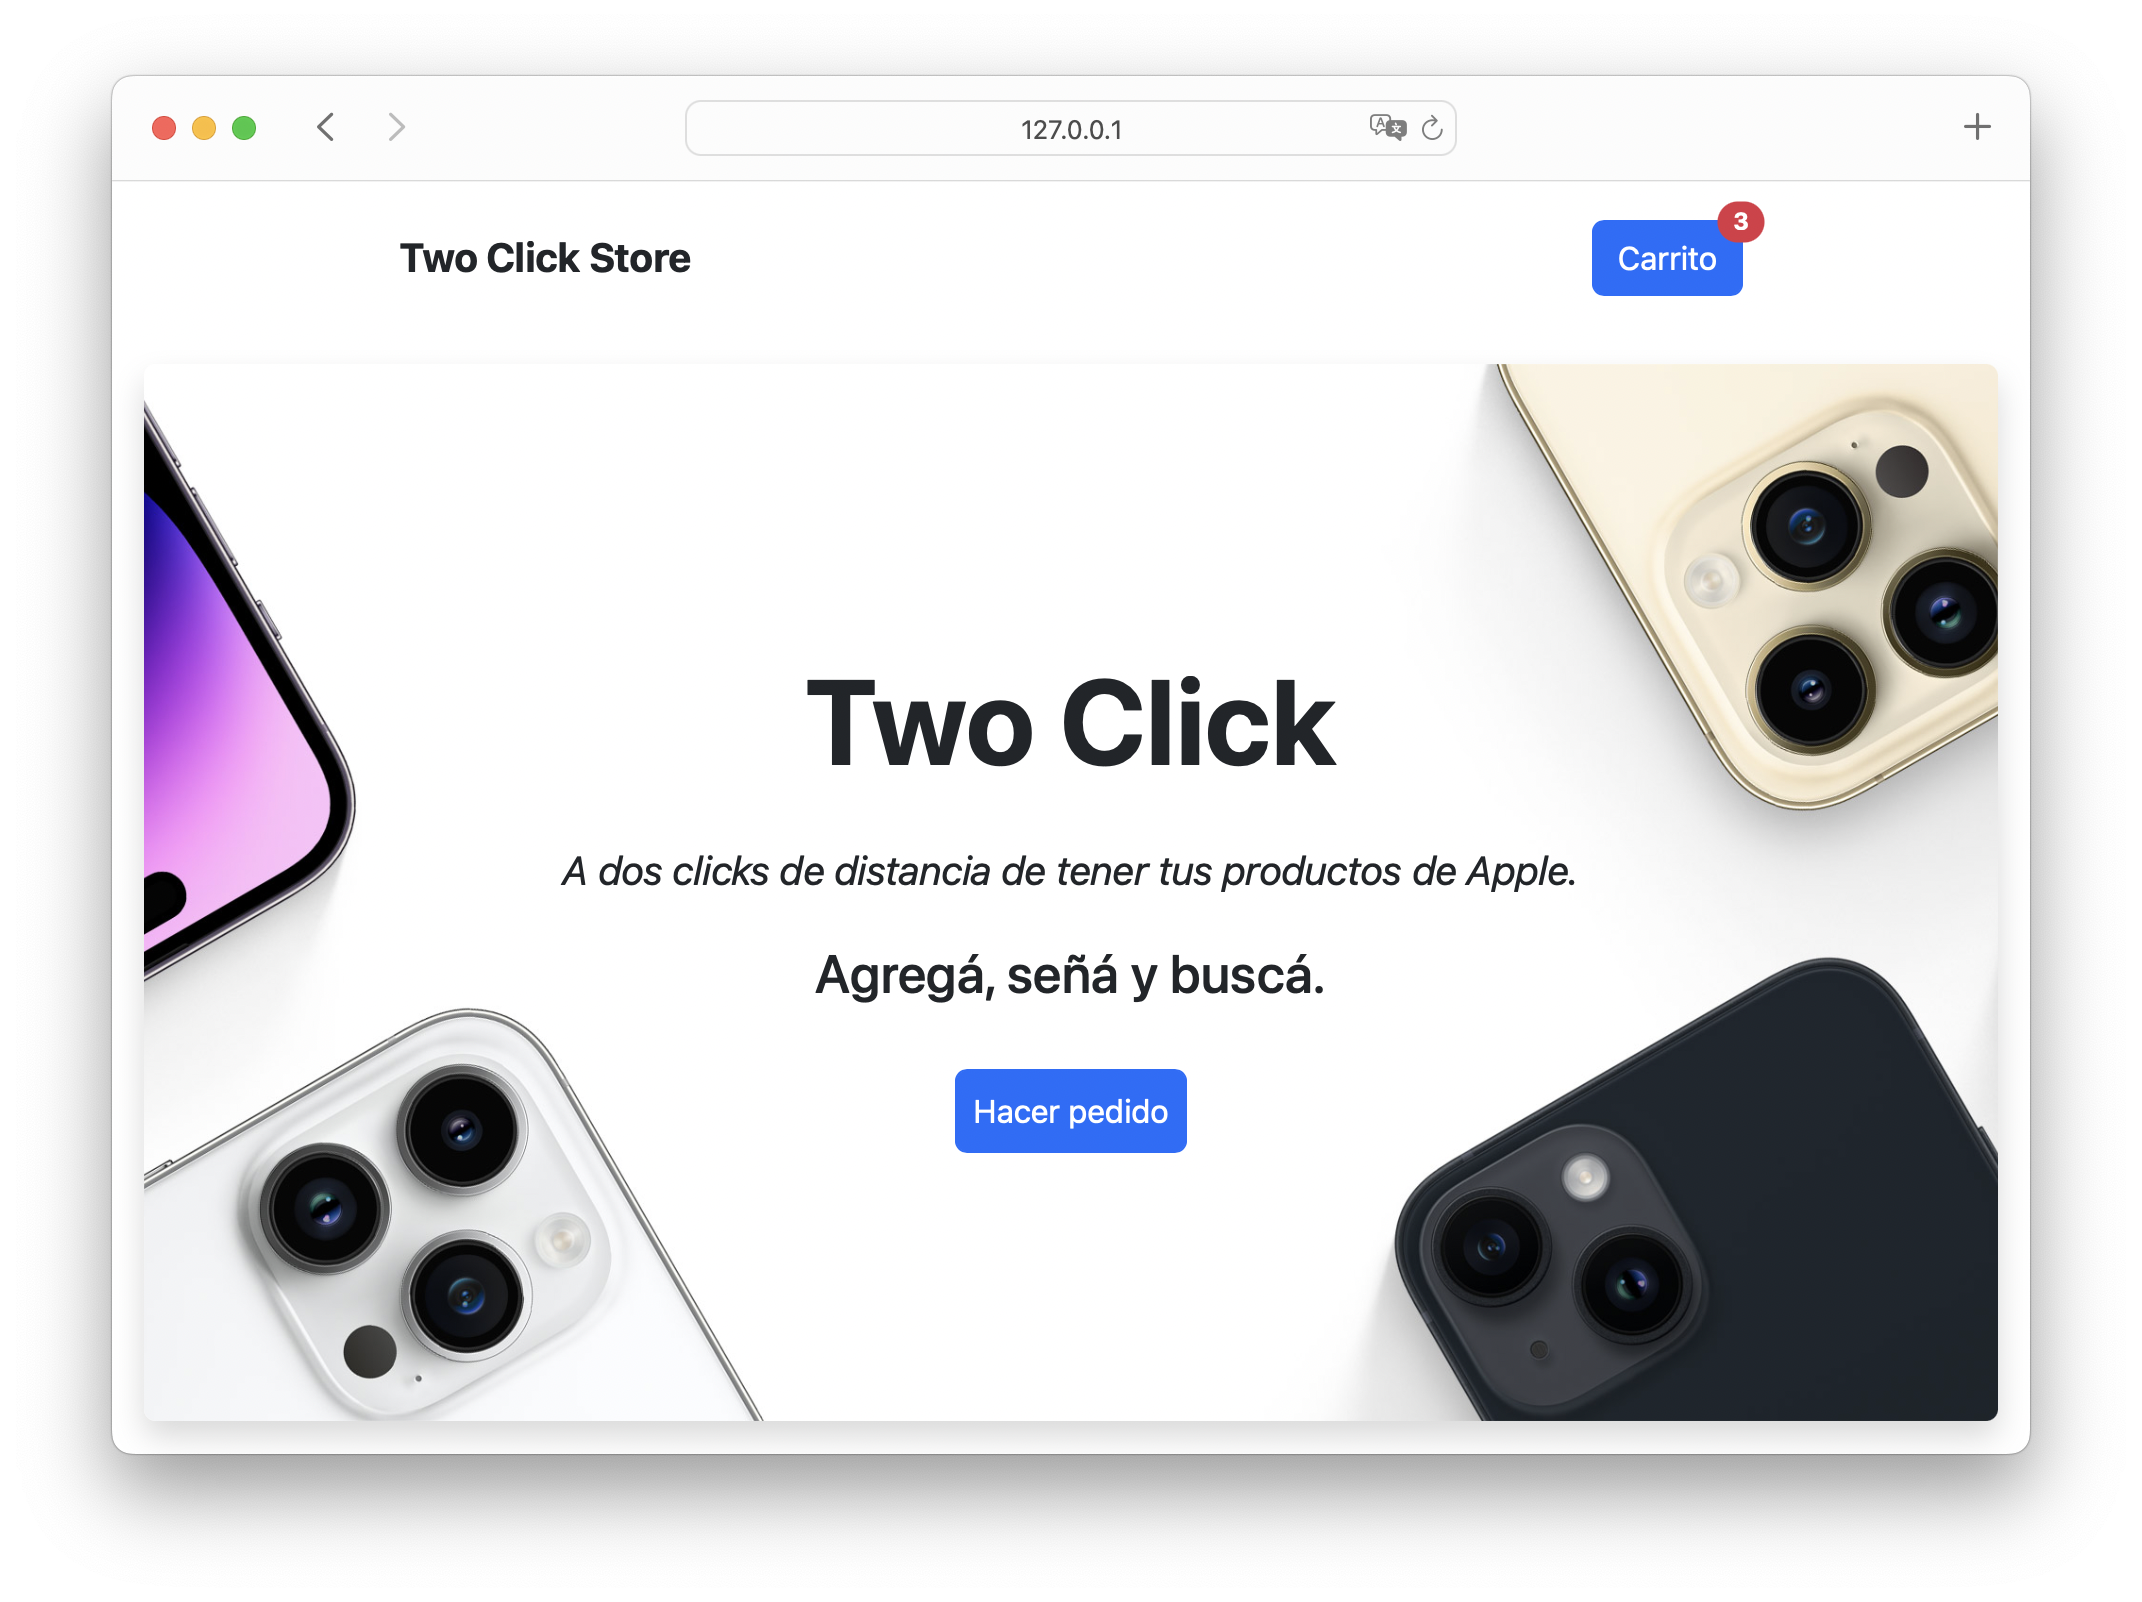
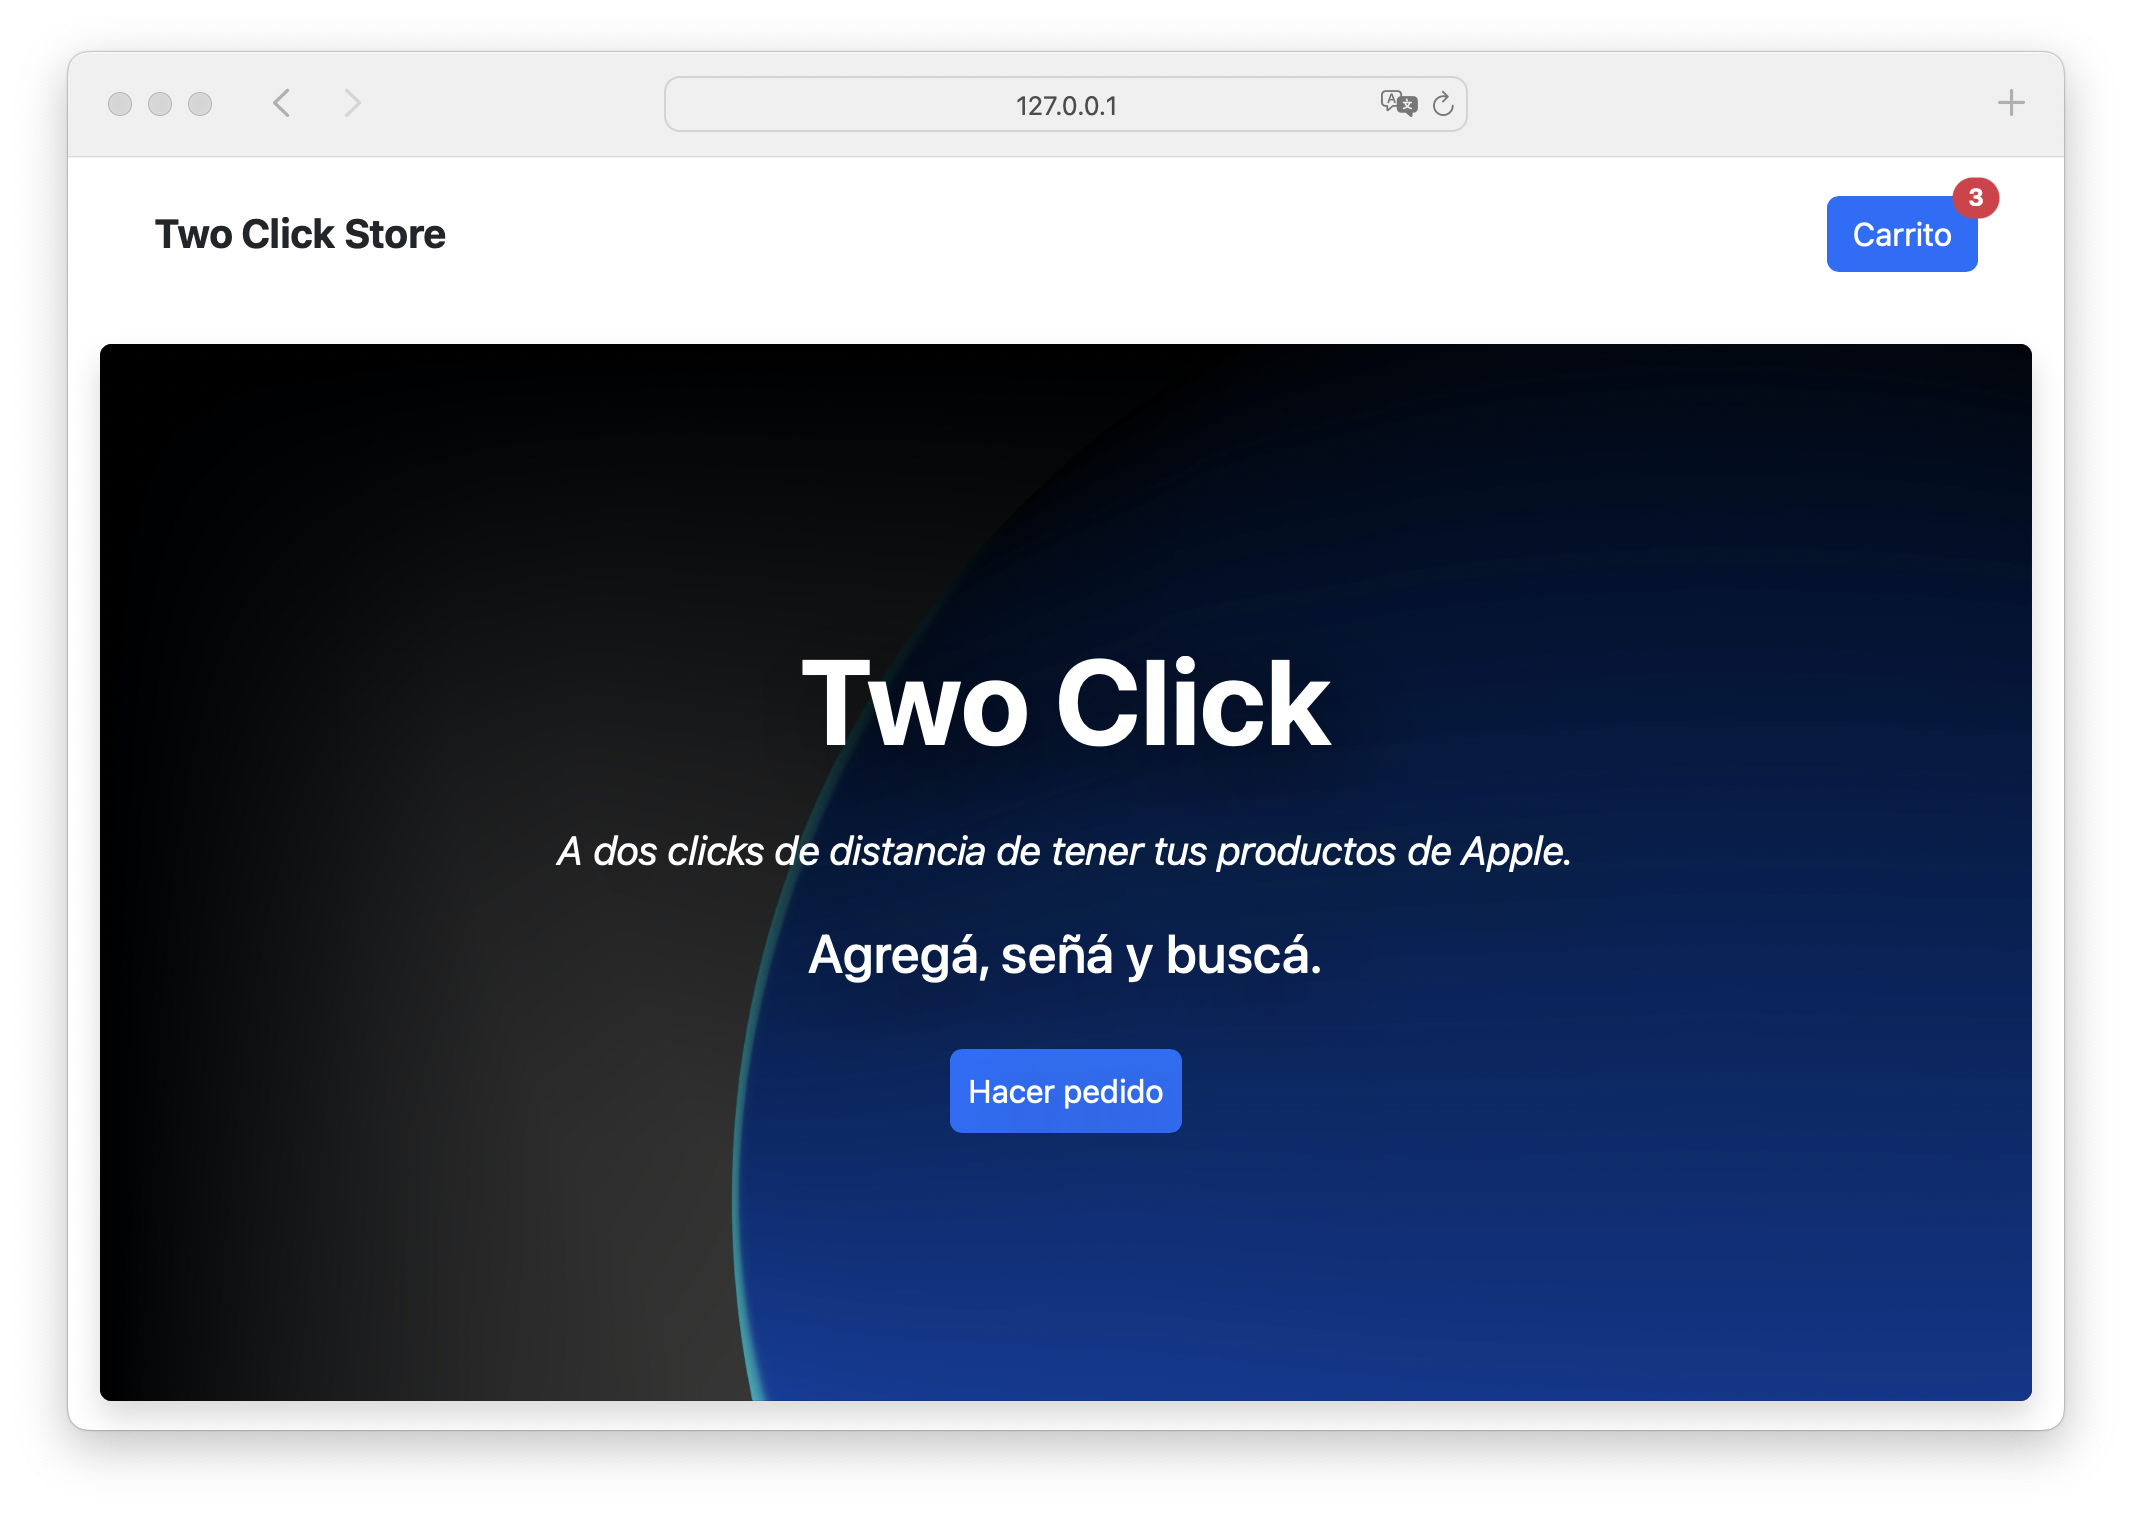
308

diff --git a/index.html b/index.html
@@ -6,7 +6,7 @@
     <meta name="description" content="La mas facil y confiable tienda de productos de Apple en Córdoba, Argentina.">
     <title>Two Click Store</title>
 
-    <link rel="shortcut icon" href="favicon.png" type="image/x-icon">
+    <link rel="shortcut icon" href="./assets/img/favicon.png" type="image/x-icon">
 
     <!-- CSS only -->
     <link href="https://cdn.jsdelivr.net/npm/bootstrap@5.2.2/dist/css/bootstrap.min.css" rel="stylesheet" integrity="sha384-Zenh87qX5JnK2Jl0vWa8Ck2rdkQ2Bzep5IDxbcnCeuOxjzrPF/et3URy9Bv1WTRi" crossorigin="anonymous">
@@ -30,10 +30,11 @@
   </nav>
 </header>
 
+
 <main>
 
   <!-- hero -->
-  <div class="overflow-hidden p-4 m-3 text-center bg-light rounded d-flex justify-content-center align-items-center flex-column hero-container shadow p-3 mb-5 bg-body">
+  <div class="overflow-hidden p-4 m-3 text-center rounded d-flex justify-content-center align-items-center flex-column hero-container shadow-lg p-3 mb-5 bg-body">
       <h1 class="fw-bold p-2 ">Two Click</h1>
       <p class="lead fw-normal fst-italic pt-2 pb-1">A dos clicks de distancia de tener tus productos de Apple.</p>
       <h3 class="pt-0 pb-4">Agregá, señá y buscá.</h3>
@@ -41,41 +42,41 @@
   </div>
 
   <!-- shop title -->
-  <div class="container text-center pt-1 pb-2" id="elegi">
-    <h2>Elige tu categoria y producto</h2>
+  <div class="container text-center pt-2 pb-2" id="elegi">
+    <h2>Elige tu categoria</h2>
   </div>
 
   <!-- product type filter -->
-  <div class="row position-relative overflow-hidden text-centerrow d-flex justify-content-center gap-3 pb-2 filter">
+  <div class="container-fluid overflow-hidden row text-center d-flex justify-content-center aling-items-center pb-2 filter">
     <!-- card iphone -->
-    <div class="col-md-2 col-sm-5 rounded d-flex flex-column justify-content-center align-items-center m-3" id="iphone-filter"">
+    <div class="col-md-2 col-sm-5 rounded d-flex flex-column justify-content-center align-items-center" id="iphone-filter"">
       <img src="./assets/img/cards/card-iphone.png" class="p-3">
       <span class="fw-bold filter-link">iPhone</span>
     </div>
     <!-- card ipad -->
-    <div class="col-md-2 col-sm-5 rounded d-flex flex-column justify-content-center align-items-center m-3" id="ipad-filter">
+    <div class="col-md-2 col-sm-5 rounded d-flex flex-column justify-content-center align-items-center" id="ipad-filter">
       <img src="./assets/img/cards/card-ipad.png" class="p-3">
       <span class="fw-bold filter-link">iPad</span>
     </div>
     <!-- card macbook -->
-    <div class="col-md-2 col-sm-5 rounded d-flex flex-column justify-content-center align-items-center m-3" id="macbook-filter">
+    <div class="col-md-2 col-sm-5 rounded d-flex flex-column justify-content-center align-items-center" id="macbook-filter">
       <img src="./assets/img/cards/card-mac.png" class="p-3">
       <span class="fw-bold filter-link">MacBook</span>
     </div>
     <!-- card airpods -->
-    <div class="col-md-2 col-sm-5 rounded d-flex flex-column justify-content-center align-items-center m-3" id="airpods-filter">
+    <div class="col-md-2 col-sm-5 rounded d-flex flex-column justify-content-center align-items-center" id="airpods-filter">
       <img src="./assets/img/cards/card-airpods.png" class="p-3">
       <span class="fw-bold filter-link">AirPods</span>
     </div>
     <!-- card all -->
-    <div class="col-md-2 col-sm-5 rounded d-flex flex-column justify-content-center align-items-center m-3" id="all-filter">
+    <div class="col-md-2 col-sm-5 rounded d-flex flex-column justify-content-center align-items-center" id="all-filter">
       <img src="./assets/img/cards/card-all.png" class="p-3">
       <span class="fw-bold filter-link">Todos</span>
     </div>
   </div>
   
   <!-- shop items container -->
-  <div class="overflow-hidden p-4 m-3 shadow text-center bg-light rounded p-2 gap-3 flex-wrap align-items-center items-container"> 
+  <div class="overflow-hidden p-4 m-3 shadow-lg text-center bg-light rounded p-2 gap-3 flex-wrap align-items-center items-container"> 
 
     <!-- item -->
     <div class="card p-2 border-0 mac">
@@ -534,8 +535,8 @@
 
     <!-- currency -->
     <div class="container-fluid d-flex justify-content-center">
-          <span type="button" class="btn btn-outline-success m-2 p-3 fw-bold w-50 shadow fs-5">Dólares</span>
-          <span type="button" class="btn btn-outline-info m-2 p-3 fw-bold w-50 shadow fs-5">Pesos Argentinos</span>
+          <button type="button" class="btn btn-outline-success m-2 p-3 fw-bold w-50 shadow-lg fs-5">Dólares</button>
+          <button type="button" class="btn btn-outline-info m-2 p-3 fw-bold w-50 shadow-lg fs-5">Pesos Argentinos</button>
     </div>
 
     <!-- final price -->
@@ -543,7 +544,7 @@
     
     <!-- pay seña -->
     <div class="w-100 d-flex justify-content-center flex-column align-items-center">
-      <span type="button" class="btn btn-primary mt-2 p-3 fw-bold shadow fs-4 w-75">Pagar seña de $ 0,000.0 en MercadoPago</span>
+      <button type="button" class="btn btn-primary mt-2 p-3 fw-bold shadow-lg fs-4 w-75">Pagar seña de $ 0,000.0 en MercadoPago</button>
       <p class="text-muted pt-3 ms-2 fw-lighter">* El valor de la seña es calculado en base al 10% de la compra</p>
     </div>
 
@@ -560,7 +561,7 @@
   <!-- ubicación -->
   <div class="border-bottom pb-4 m-3">
     <h2 class="pt-2 pb-2 text-center">Encuentranos aquí!</h2>
-    <div class="overflow-hidden m-3 text-center bg-light rounded d-flex justify-content-center align-items-center flex-column shadow">
+    <div class="overflow-hidden m-3 text-center bg-light rounded d-flex justify-content-center align-items-center flex-column shadow-lg">
       <iframe src="https://www.google.com/maps/embed?pb=!1m18!1m12!1m3!1d3406.201436119038!2d-64.21718838489022!3d-31.381008801681563!2m3!1f0!2f0!3f0!3m2!1i1024!2i768!4f13.1!3m3!1m2!1s0x943298e16c8d3053%3A0x7fc78b1f816ef745!2sOneClick%20C%C3%B3rdoba%20Shopping!5e0!3m2!1sen!2sar!4v1664995580878!5m2!1sen!2sar"></iframe>
     </div>
   </div>

diff --git a/assets/css/style.css b/assets/css/style.css
@@ -1,12 +1,14 @@
 .hero-container{
   min-height: 83vh;
-  background-image: url("../img/hero-bg.jpeg");
-  background-size: cover;
-  background-position: center;
+  background-image: url("../img/hero.jpeg");
+  background-size:cover;
+  background-position: top;
   background-repeat: no-repeat;
+  color: #fff;
+  text-shadow: 10px 10px 50px #000000;
 }
-body{
-  max-width: 1000px;
+main, nav, footer{
+  max-width: 1000px !important;
   margin: 0 auto;
 }
 h1{
@@ -36,6 +38,10 @@ img{
   .items-container{
     justify-content: center;
   }
+  .card{
+    width: 100% !important;
+  }
+
 }
 .card{
   width: 280px;
@@ -43,6 +49,7 @@ img{
   display: flex;
   justify-content: space-between;
   flex-direction: column;
+  text-align: center;
 }
 .img-card-container{
   display: flex;
